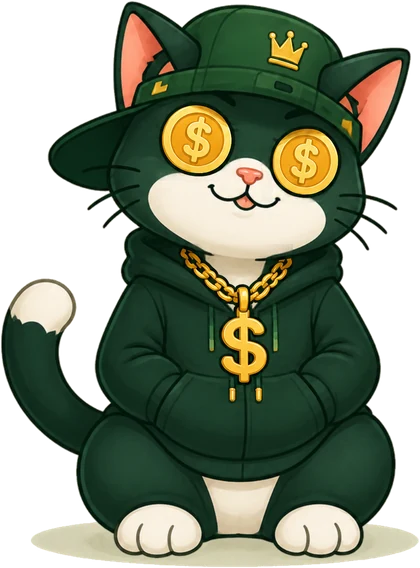
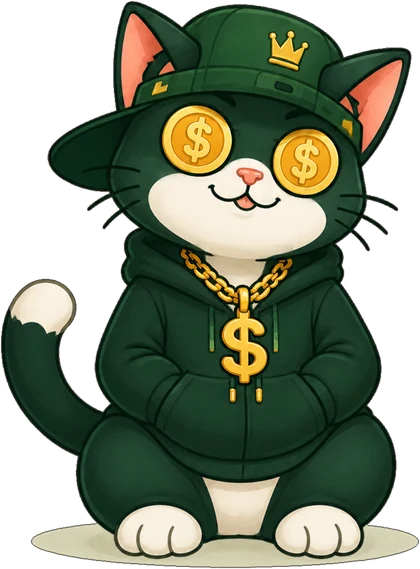
Conheça a turma em grade de personagens; gatos sem halo e legíveis no modo escuro

diff --git a/src/web/estilo.css b/src/web/estilo.css
@@ -222,18 +222,60 @@ h2 { font-size: 1.08rem; font-weight: 800; }
 .acao:hover .acao-gato { transform: translateY(-4px) rotate(-3deg); }
 
 .cabecalho-tela { display: flex; align-items: center; gap: 12px; margin: 4px 0 12px; }
-.cabecalho-tela img { height: 78px; width: auto; flex: none; }
+.cabecalho-tela img { height: 72px; width: 72px; object-fit: contain; object-position: bottom; flex: none; background: #f6efe2; border-radius: 50%; padding: 6px 6px 0; }
 .cabecalho-tela .titulo-tela { margin: 0; }
 .cabecalho-tela .nota { margin: 2px 0 0; }
 .icone-titulo { height: 30px; width: auto; vertical-align: middle; }
 
-.turma img:first-child { width: 100%; height: auto; display: block; margin: -4px 0 8px; }
-.turma-lista { list-style: none; margin: 0; padding: 0; display: grid; gap: 10px; }
-.turma-lista li { display: flex; gap: 10px; align-items: center; }
-.turma-lista li img { width: 44px; height: 44px; object-fit: contain; flex: none; background: var(--fundo); border-radius: 12px; padding: 3px; }
-.turma-lista small { display: block; color: var(--suave); font-size: 0.8rem; }
+/* Personagens sempre sobre o creme da marca: o gato verde-escuro não some no modo escuro. */
+.turma-banner {
+  background: radial-gradient(120% 90% at 50% 100%, #f6efe2 0 70%, #efe5d2 100%);
+  border-radius: 18px;
+  padding: 14px 10px 0;
+  margin-bottom: 14px;
+  overflow: hidden;
+}
+.turma-banner img { width: 100%; height: auto; display: block; }
+.turma h2 { margin-bottom: 2px; }
+.personagens { display: grid; grid-template-columns: repeat(2, minmax(0, 1fr)); gap: 12px; margin-top: 12px; }
+.personagem {
+  background: var(--fundo);
+  border: 1px solid var(--borda);
+  border-radius: 18px;
+  padding: 14px 12px 16px;
+  text-align: center;
+  display: flex;
+  flex-direction: column;
+  align-items: center;
+  gap: 4px;
+}
+.personagem-foto {
+  width: 92px;
+  height: 92px;
+  border-radius: 50%;
+  background: #f6efe2;
+  display: grid;
+  place-items: end center;
+  overflow: hidden;
+  margin-bottom: 6px;
+  box-shadow: inset 0 -6px 12px rgba(15, 61, 42, 0.08);
+}
+.personagem-foto img { width: 82%; height: auto; margin-bottom: -6px; }
+.personagem h3 { margin: 0; font-size: 1rem; font-weight: 800; }
+.papel {
+  font-size: 0.7rem;
+  font-weight: 800;
+  text-transform: uppercase;
+  letter-spacing: 0.04em;
+  color: var(--marca-escura);
+  background: var(--marca-clara);
+  padding: 3px 10px;
+  border-radius: 999px;
+}
+.personagem p { margin: 6px 0 0; color: var(--suave); font-size: 0.8rem; line-height: 1.35; }
+@media (max-width: 340px) { .personagens { grid-template-columns: 1fr; } }
 
-.avatar { width: 34px; height: 34px; object-fit: contain; flex: none; align-self: flex-end; }
+.avatar { width: 36px; height: 36px; object-fit: contain; object-position: bottom; flex: none; align-self: flex-end; background: #f6efe2; border-radius: 50%; padding: 3px 3px 0; }
 .linha-msg { display: flex; gap: 6px; align-items: flex-end; max-width: 94%; }
 .linha-msg .msg { max-width: 100%; }
 .acao-laranja { background: var(--marca-clara); }
@@ -530,3 +572,19 @@ input:focus, select:focus { outline: none; border-color: var(--marca); }
 .aba-central.ativa svg { fill: none; }
 
 .rodape { text-align: center; color: var(--suave); font-size: 0.72rem; padding: 20px 8px 8px; }
+
+/* Modo escuro: contorno creme sutil para os gatos verde-escuros não sumirem no fundo. */
+@media (prefers-color-scheme: dark) {
+  :root:not([data-theme="light"]) .acao-gato,
+  :root:not([data-theme="light"]) .mascote img,
+  :root:not([data-theme="light"]) .foto-gato,
+  :root:not([data-theme="light"]) .icone-titulo {
+    filter: drop-shadow(0 0 1px rgba(246, 239, 226, 0.9)) drop-shadow(0 0 6px rgba(246, 239, 226, 0.18));
+  }
+}
+:root[data-theme="dark"] .acao-gato,
+:root[data-theme="dark"] .mascote img,
+:root[data-theme="dark"] .foto-gato,
+:root[data-theme="dark"] .icone-titulo {
+  filter: drop-shadow(0 0 1px rgba(246, 239, 226, 0.9)) drop-shadow(0 0 6px rgba(246, 239, 226, 0.18));
+}

diff --git a/src/web/index.html b/src/web/index.html
@@ -49,16 +49,37 @@
           <button type="button" class="acao acao-azul" data-ir="cupom"><img src="img/recibaldo.webp" alt="" class="acao-gato"><b>Enviar cupom</b><small>O Recibaldo confere</small></button>
         </div>
 
-        <div class="cartao turma">
-          <img src="img/turma.webp" alt="A turma da EconoMIA: Mia, Recibaldo, Cifrão e Miau-ricio">
-          <h2>Conheça a turma</h2>
-          <ul class="turma-lista">
-            <li><img src="img/mia.webp" alt=""><div><b>Mia</b><small>A parceira inteligente que confere cada resposta para você economizar, planejar e viver melhor.</small></div></li>
-            <li><img src="img/cifrao.webp" alt=""><div><b>Cifrão</b><small>O gato da rua que sabe onde tem as melhores ofertas e faz o seu dinheiro render.</small></div></li>
-            <li><img src="img/miauricio.webp" alt=""><div><b>Miau-ricio</b><small>O estrategista que planeja cada compra, cada receita e cada conquista.</small></div></li>
-            <li><img src="img/recibaldo.webp" alt=""><div><b>Recibaldo</b><small>O fiscal dos gastos que lê o seu cupom e garante que cada centavo valeu.</small></div></li>
-          </ul>
-        </div>
+        <section class="cartao turma" aria-labelledby="titulo-turma">
+          <div class="turma-banner"><img src="img/turma.webp" alt="Mia, Recibaldo, Cifrão e Miau-ricio juntos"></div>
+          <h2 id="titulo-turma">Conheça a turma</h2>
+          <p class="nota">Quatro agentes de IA, cada um com uma missão.</p>
+          <div class="personagens">
+            <article class="personagem">
+              <div class="personagem-foto"><img src="img/mia.webp" alt=""></div>
+              <h3>Mia</h3>
+              <span class="papel">Verificação</span>
+              <p>A parceira inteligente: confere cada resposta para você economizar, planejar e viver melhor.</p>
+            </article>
+            <article class="personagem">
+              <div class="personagem-foto"><img src="img/cifrao.webp" alt=""></div>
+              <h3>Cifrão</h3>
+              <span class="papel">Preços e ofertas</span>
+              <p>O gato da rua que sabe onde tem as melhores ofertas e faz o seu dinheiro render.</p>
+            </article>
+            <article class="personagem">
+              <div class="personagem-foto"><img src="img/miauricio.webp" alt=""></div>
+              <h3>Miau-ricio</h3>
+              <span class="papel">Cesta e receitas</span>
+              <p>O estrategista que planeja cada compra, cada receita e cada conquista.</p>
+            </article>
+            <article class="personagem">
+              <div class="personagem-foto"><img src="img/recibaldo.webp" alt=""></div>
+              <h3>Recibaldo</h3>
+              <span class="papel">Cupom fiscal</span>
+              <p>O fiscal dos gastos: lê o seu cupom e garante que cada centavo valeu.</p>
+            </article>
+          </div>
+        </section>
 
         <div class="cartao dica">
           <span class="dica-emoji" aria-hidden="true">💡</span>

diff --git a/experimentos/marca_gatos.py b/experimentos/marca_gatos.py
@@ -23,9 +23,13 @@ def sem_fundo(im, tolerancia=16, so_maior=True):
         nucleo = opaco & (rgb.min(axis=2) < 200)
         r2, n = ndimage.label(nucleo)
         maior = np.argmax(ndimage.sum(nucleo, r2, range(1, n + 1))) + 1
-        opaco = ndimage.binary_dilation(ndimage.binary_fill_holes(r2 == maior), iterations=2) & opaco
-    alfa = Image.fromarray((opaco * 255).astype(np.uint8)).filter(ImageFilter.GaussianBlur(0.7))
-    a[..., 3] = np.array(alfa)
+        # Sem dilatar: a borda fica no contorno escuro do desenho, sem o halo creme do fundo.
+        opaco = ndimage.binary_fill_holes(r2 == maior) & opaco
+    alfa = np.array(Image.fromarray((opaco * 255).astype(np.uint8)).filter(ImageFilter.GaussianBlur(0.6)))
+    a[..., 3] = alfa
+    # Pixels semitransparentes da borda: escurece para o tom do contorno (tira o brilho creme).
+    borda = (alfa > 0) & (alfa < 255)
+    a[..., :3][borda] = (a[..., :3][borda] * 0.45).astype(int)
     out = Image.fromarray(a.astype(np.uint8), "RGBA")
     return out.crop(out.getbbox())
 
